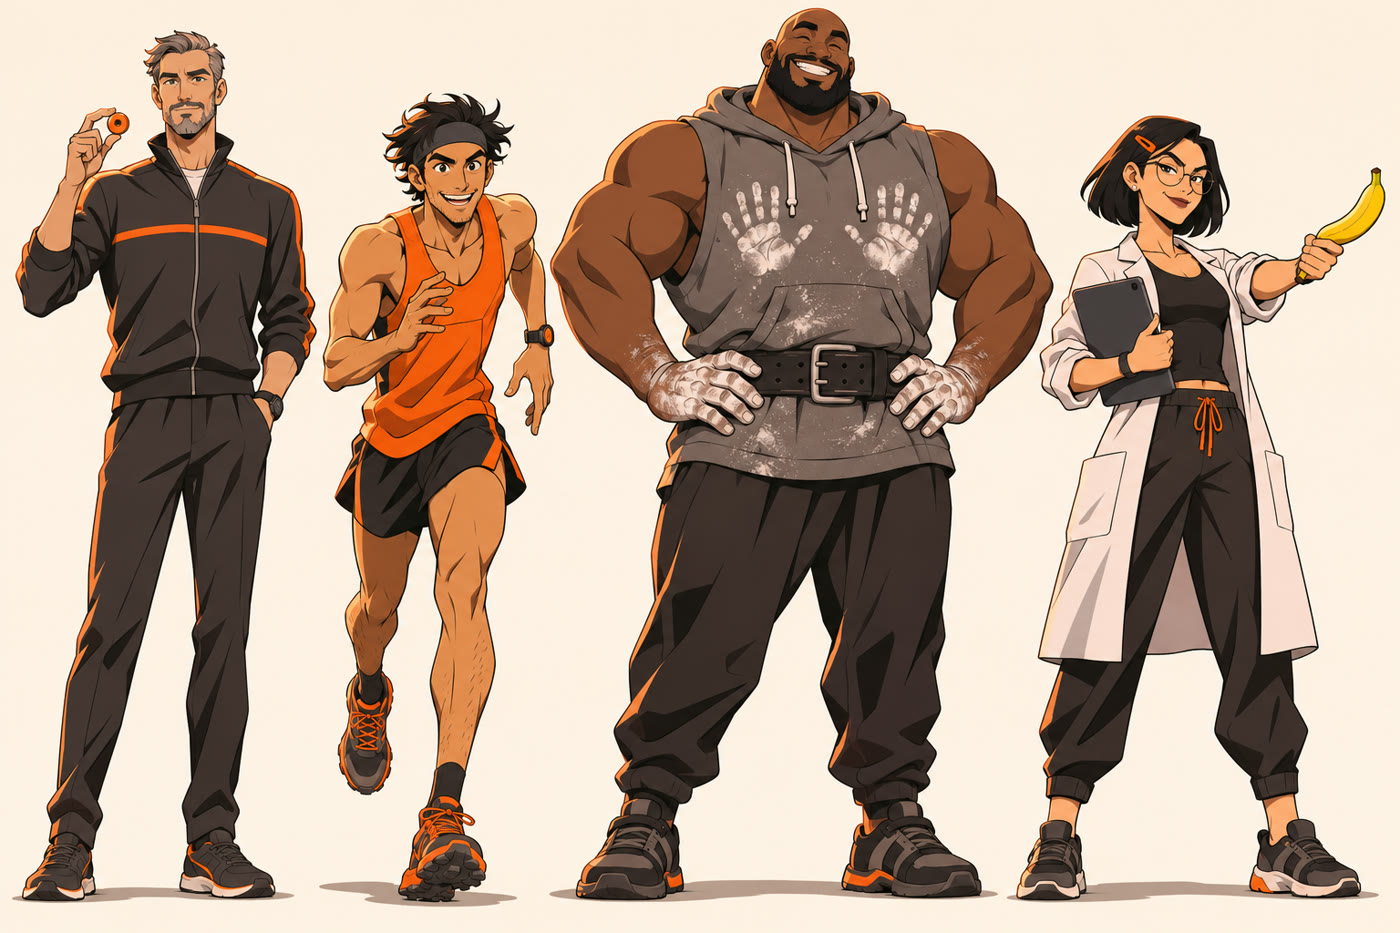
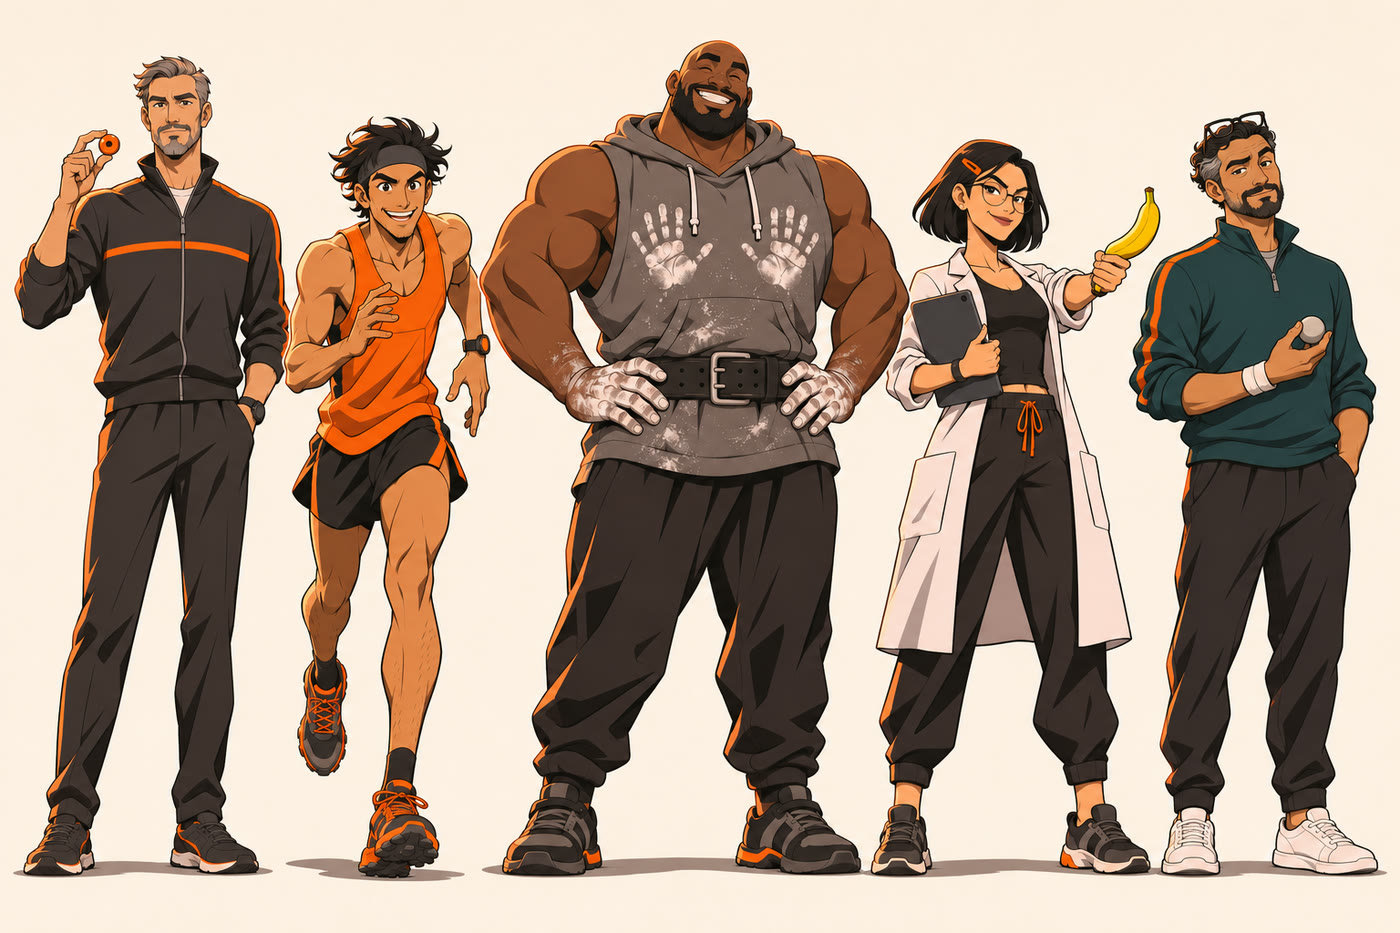
Mo joins the coaches (five AI coaches); hero leads with the first Garmin prediction, 4:39:49; five-coach lineup and share image

diff --git a/can-an-ai-coach-get-you-to-a-sub-3-marathon/index.html b/can-an-ai-coach-get-you-to-a-sub-3-marathon/index.html
@@ -6,17 +6,17 @@
 <script async src="https://www.googletagmanager.com/gtm.js?id=GTM-5Q6Q2KFL"></script>
 <script>window.dataLayer=window.dataLayer||[];function gtag(){dataLayer.push(arguments);}gtag('js',new Date());</script>
 <title>Can an AI coach get you to a sub-3 marathon? One runner is testing it | To The Finish AI running coach</title>
-<meta name="description" content="Not proven yet. I&#x27;m testing it on myself: four AI coaches plan my training for a sub-3 marathon at Chicago on October 10, 2027. Here are my real Garmin numbers, updated every month.">
+<meta name="description" content="Not proven yet. I&#x27;m testing it on myself: five AI coaches plan my training for a sub-3 marathon at Chicago on October 10, 2027. Here are my real Garmin numbers, updated every month.">
 <link rel="canonical" href="https://tothefinish.ai/can-an-ai-coach-get-you-to-a-sub-3-marathon/">
 <meta property="og:title" content="Can an AI coach get you to a sub-3 marathon? One runner is testing it | To The Finish AI running coach">
-<meta property="og:description" content="Not proven yet. I&#x27;m testing it on myself: four AI coaches plan my training for a sub-3 marathon at Chicago on October 10, 2027. Here are my real Garmin numbers, updated every month.">
+<meta property="og:description" content="Not proven yet. I&#x27;m testing it on myself: five AI coaches plan my training for a sub-3 marathon at Chicago on October 10, 2027. Here are my real Garmin numbers, updated every month.">
 <meta property="og:image" content="https://tothefinish.ai/assets/og.jpg">
 <meta property="og:url" content="https://tothefinish.ai/can-an-ai-coach-get-you-to-a-sub-3-marathon/">
 <meta name="twitter:card" content="summary_large_image">
 <link rel="icon" href="/assets/favicon.png">
 <link rel="apple-touch-icon" href="/assets/apple-touch-icon.png">
 <link rel="stylesheet" href="/assets/site.css">
-<script type="application/ld+json">{"@context": "https://schema.org", "@type": "Article", "headline": "Can an AI coach get you to a sub-3 marathon? One runner is testing it", "description": "Not proven yet. I'm testing it on myself: four AI coaches plan my training for a sub-3 marathon at Chicago on October 10, 2027. Here are my real Garmin numbers, updated every month.", "author": {"@type": "Person", "name": "Tyler Stewart", "url": "https://tothefinish.ai/ai-running-coach/"}, "datePublished": "2026-11-18T08:00:00-08:00", "dateModified": "2026-11-18T08:00:00-08:00", "publisher": {"@type": "Organization", "name": "To The Finish", "url": "https://tothefinish.ai/", "logo": {"@type": "ImageObject", "url": "https://tothefinish.ai/assets/logo.png"}}, "mainEntityOfPage": "https://tothefinish.ai/can-an-ai-coach-get-you-to-a-sub-3-marathon/"}</script>
+<script type="application/ld+json">{"@context": "https://schema.org", "@type": "Article", "headline": "Can an AI coach get you to a sub-3 marathon? One runner is testing it", "description": "Not proven yet. I'm testing it on myself: five AI coaches plan my training for a sub-3 marathon at Chicago on October 10, 2027. Here are my real Garmin numbers, updated every month.", "author": {"@type": "Person", "name": "Tyler Stewart", "url": "https://tothefinish.ai/ai-running-coach/"}, "datePublished": "2026-11-18T08:00:00-08:00", "dateModified": "2026-11-18T08:00:00-08:00", "publisher": {"@type": "Organization", "name": "To The Finish", "url": "https://tothefinish.ai/", "logo": {"@type": "ImageObject", "url": "https://tothefinish.ai/assets/logo.png"}}, "mainEntityOfPage": "https://tothefinish.ai/can-an-ai-coach-get-you-to-a-sub-3-marathon/"}</script>
 </head>
 <body>
 <header class="page-top">
@@ -32,7 +32,7 @@
   </div>
 </header>
 <section>
-  <div class="wrap prose"><p>Not proven yet. I&#x27;m testing it on myself. Four AI coaches plan my running, lifting and food for a sub-3 marathon at the Chicago Marathon on October 10, 2027, and I publish the numbers as they come in.</p><p>On October 19, 2026, my Garmin predicted a 4:39:49 marathon. On November 18, 2026, it said 4:34:04. I need 2:59:59.</p><h2>Where I am, from my Garmin</h2><div class="tablewrap"><table class="qt"><thead><tr><th>Measure</th><th>Number</th><th>Date</th></tr></thead><tbody><tr><td data-label="Measure">Garmin marathon prediction, first reading</td><td data-label="Number">4:39:49</td><td data-label="Date">Oct 19, 2026</td></tr><tr><td data-label="Measure">Garmin marathon prediction, latest</td><td data-label="Number">4:34:04</td><td data-label="Date">Nov 18, 2026</td></tr><tr><td data-label="Measure">Goal at Chicago</td><td data-label="Number">2:59:59</td><td data-label="Date">Oct 10, 2027</td></tr><tr><td data-label="Measure">Best threshold pace (per mile)</td><td data-label="Number">6:42</td><td data-label="Date">Aug 2025</td></tr><tr><td data-label="Measure">Threshold pace now (per mile)</td><td data-label="Number">7:55</td><td data-label="Date">Oct 2026</td></tr><tr><td data-label="Measure">Half marathon best</td><td data-label="Number">1:32:31</td><td data-label="Date">Jun 2024</td></tr></tbody></table></div><p>Threshold pace is roughly the fastest pace I can hold for an hour, measured by my Garmin with a chest strap. I&#x27;ve been faster than I am today, which is part of why I think the gap can close.</p><h2>How the AI coaching works</h2><p>Kai, the running coach, builds every week from a published marathon training method and my Garmin data. The plan climbs from about 32 miles a week now to a peak near 90 in September 2027, with hill sprints every week.</p><p>Rook, the head coach, settles it when the running, strength and nutrition coaches want different things. Anything I report, like pain, comes first. Then the race. Every change is written down with the rule behind it.</p><h2>How you&#x27;ll know if it worked</h2><p>The test has checkpoints: a 5K on February 6, 2027, a 10K on May 15, a half marathon on September 5, then Chicago. Each result goes on this site with the official time. If the AI coaching falls short, that goes on here too.</p>
+  <div class="wrap prose"><p>Not proven yet. I&#x27;m testing it on myself. Five AI coaches plan my running, lifting, food and recovery for a sub-3 marathon at the Chicago Marathon on October 10, 2027, and I publish the numbers as they come in.</p><p>On October 19, 2026, my Garmin predicted a 4:39:49 marathon. On November 18, 2026, it said 4:34:04. I need 2:59:59.</p><h2>Where I am, from my Garmin</h2><div class="tablewrap"><table class="qt"><thead><tr><th>Measure</th><th>Number</th><th>Date</th></tr></thead><tbody><tr><td data-label="Measure">Garmin marathon prediction, first reading</td><td data-label="Number">4:39:49</td><td data-label="Date">Oct 19, 2026</td></tr><tr><td data-label="Measure">Garmin marathon prediction, latest</td><td data-label="Number">4:34:04</td><td data-label="Date">Nov 18, 2026</td></tr><tr><td data-label="Measure">Goal at Chicago</td><td data-label="Number">2:59:59</td><td data-label="Date">Oct 10, 2027</td></tr><tr><td data-label="Measure">Best threshold pace (per mile)</td><td data-label="Number">6:42</td><td data-label="Date">Aug 2025</td></tr><tr><td data-label="Measure">Threshold pace now (per mile)</td><td data-label="Number">7:55</td><td data-label="Date">Oct 2026</td></tr><tr><td data-label="Measure">Half marathon best</td><td data-label="Number">1:32:31</td><td data-label="Date">Jun 2024</td></tr></tbody></table></div><p>Threshold pace is roughly the fastest pace I can hold for an hour, measured by my Garmin with a chest strap. I&#x27;ve been faster than I am today, which is part of why I think the gap can close.</p><h2>How the AI coaching works</h2><p>Kai, the running coach, builds every week from a published marathon training method and my Garmin data. The plan climbs from about 32 miles a week now to a peak near 90 in September 2027, with hill sprints every week.</p><p>Rook, the head coach, settles it when the running, strength and nutrition coaches want different things. Anything I report, like pain, comes first. Then the race. Every change is written down with the rule behind it.</p><h2>How you&#x27;ll know if it worked</h2><p>The test has checkpoints: a 5K on February 6, 2027, a 10K on May 15, a half marathon on September 5, then Chicago. Each result goes on this site with the official time. If the AI coaching falls short, that goes on here too.</p>
     <p class="note">By Tyler Stewart. Numbers from my Garmin (chest-strap heart rate). Not medical or nutrition advice; the coaches are AI characters.</p>
   </div>
 </section>

diff --git a/index.html b/index.html
@@ -11,13 +11,13 @@
   gtag('js', new Date());
 </script>
 <title>To The Finish · The AI running coach show: a 258 lb dad chasing sub-3</title>
-<meta name="description" content="To The Finish is an AI running coach show. I started at 258 lb. I have two kids and 47 weeks to run a sub-3 marathon at Chicago. Four AI coaches run my plan from my Garmin data, and every week becomes an animated episode.">
+<meta name="description" content="To The Finish is an AI running coach show. I started at 258 lb. I have two kids and 47 weeks to run a sub-3 marathon at Chicago. Five AI coaches run my plan from my Garmin data, and every week becomes an animated episode.">
 <meta property="og:title" content="To The Finish · The AI running coach show">
-<meta property="og:description" content="The AI running coach show: a 258 lb dad of two, four AI coaches, and 47 weeks to run a sub-3 marathon at Chicago.">
+<meta property="og:description" content="The AI running coach show: a 258 lb dad of two, five AI coaches, and 47 weeks to run a sub-3 marathon at Chicago.">
 <meta property="og:image" content="https://tothefinish.ai/assets/og.jpg">
 <meta property="og:url" content="https://tothefinish.ai/">
 <link rel="canonical" href="https://tothefinish.ai/">
-<script type="application/ld+json">{"@context": "https://schema.org", "@graph": [{"@type": "WebSite", "name": "To The Finish", "alternateName": "To The Finish AI running coach", "url": "https://tothefinish.ai/"}, {"@type": "CreativeWorkSeries", "name": "To The Finish", "url": "https://tothefinish.ai/", "description": "The AI running coach show, weekly and animated: a 258 lb dad of two training for a sub-3 marathon at Chicago, coached by four AI coaches, with real Garmin numbers.", "sameAs": ["https://www.youtube.com/@tothefinishai", "https://www.instagram.com/tothefinishai/", "https://www.tiktok.com/@tothefinishai", "https://x.com/tothefinishai", "https://www.strava.com/clubs/tothefinish"]}]}</script>
+<script type="application/ld+json">{"@context": "https://schema.org", "@graph": [{"@type": "WebSite", "name": "To The Finish", "alternateName": "To The Finish AI running coach", "url": "https://tothefinish.ai/"}, {"@type": "CreativeWorkSeries", "name": "To The Finish", "url": "https://tothefinish.ai/", "description": "The AI running coach show, weekly and animated: a 258 lb dad of two training for a sub-3 marathon at Chicago, coached by five AI coaches, with real Garmin numbers.", "sameAs": ["https://www.youtube.com/@tothefinishai", "https://www.instagram.com/tothefinishai/", "https://www.tiktok.com/@tothefinishai", "https://x.com/tothefinishai", "https://www.strava.com/clubs/tothefinish"]}]}</script>
 <meta name="twitter:card" content="summary_large_image">
 <link rel="icon" href="assets/favicon.png">
 <link rel="apple-touch-icon" href="assets/apple-touch-icon.png">
@@ -80,7 +80,7 @@ form.join button:hover{filter:brightness(1.06)}
 
 /* coaches */
 .coaches h2{font-size:clamp(44px,6vw,72px);margin-bottom:12px}
-.grid{display:grid;grid-template-columns:repeat(4,1fr);gap:16px;margin-top:26px}
+.grid{display:grid;grid-template-columns:repeat(5,1fr);gap:16px;margin-top:26px}
 .card{background:var(--ink-2);border-radius:14px;overflow:hidden;border:1px solid var(--line)}
 .card img{width:100%;aspect-ratio:4/5;object-fit:cover;display:block}
 .card .t{padding:16px}
@@ -125,7 +125,7 @@ footer p{margin:14px 0 0;line-height:1.5}
       <div>
         <p class="kicker">Episode 1 · Sunday, Nov 22</p>
         <h1 class="display">To the<br><span class="o">finish.</span></h1>
-        <p class="lead">I started this at 258 lb, with two kids and a goal I'm not built for: a sub-3 marathon at Chicago on October 10, 2027. My watch says I'd run <b data-k="now">4:34:04</b> today. Four AI coaches run my plan, and every week becomes an animated episode.</p>
+        <p class="lead">I started this at 258 lb, with two kids and a goal I'm not built for: a sub-3 marathon at Chicago on October 10, 2027. When I started, my watch said I'd run a 4:39:49 marathon. Today it says <b data-k="now">4:34:04</b>. Five AI coaches run my plan, and every week becomes an animated episode.</p>
         <form class="join" id="join-top" data-thanks="thanks-top">
           <input name="fields[first_name]" placeholder="First name" autocomplete="given-name">
           <input name="email_address" type="email" placeholder="Email" required autocomplete="email">
@@ -134,7 +134,7 @@ footer p{margin:14px 0 0;line-height:1.5}
         <div class="thanks" id="thanks-top">You're in. The first email comes Sunday with the week's miles and the new episode.</div>
         <p class="fine">One email every Sunday: my week's miles and the new episode.</p>
       </div>
-      <img src="assets/lineup.jpg" alt="The four To The Finish coaches: Rook, Kai, Bo and Juno" width="1400" height="933">
+      <img src="assets/lineup.jpg" alt="The five To The Finish coaches: Rook, Kai, Bo, Juno and Mo" width="1400" height="933">
     </div>
   </div>
 </header>
@@ -194,6 +194,7 @@ footer p{margin:14px 0 0;line-height:1.5}
       <div class="card"><img src="assets/kai.jpg" alt="Kai, the AI running coach" loading="lazy"><div class="t"><h3>Kai</h3><p class="role">AI running coach</p><p class="job">Plans every run from my Garmin data.</p><p class="line">"Easy days slower than his ego wants."</p></div></div>
       <div class="card"><img src="assets/bo.jpg" alt="Bo, the AI strength coach" loading="lazy"><div class="t"><h3>Bo</h3><p class="role">AI strength coach</p><p class="job">Fits four short lifts around the running.</p><p class="line">"I want his legs. Twice a week."</p></div></div>
       <div class="card"><img src="assets/juno.jpg" alt="Juno, the AI nutritionist" loading="lazy"><div class="t"><h3>Juno</h3><p class="role">AI nutritionist</p><p class="job">Plans my meals around the training.</p><p class="line">"Fight over him all you want. I feed him first."</p></div></div>
+      <div class="card"><img src="assets/mo.jpg" alt="Mo, the AI recovery coach" loading="lazy"><div class="t"><h3>Mo</h3><p class="role">AI recovery coach</p><p class="job">Keeps me healthy: sleep, aches, easier weeks.</p><p class="line">"He's mine at eight. Lights out."</p></div></div>
     </div>
   </div>
 </section>

diff --git a/ai-running-coach/index.html b/ai-running-coach/index.html
@@ -5,18 +5,18 @@
 <meta name="viewport" content="width=device-width, initial-scale=1">
 <script async src="https://www.googletagmanager.com/gtm.js?id=GTM-5Q6Q2KFL"></script>
 <script>window.dataLayer=window.dataLayer||[];function gtag(){dataLayer.push(arguments);}gtag('js',new Date());</script>
-<title>AI Running Coach: four coaches, one sub-3 attempt | To The Finish</title>
-<meta name="description" content="My AI running coach is a team of four: running, strength, nutrition and a head coach who settles it when they disagree. It reads my Garmin data and plans my week toward a sub-3 marathon.">
+<title>AI Running Coach: five coaches, one sub-3 attempt | To The Finish</title>
+<meta name="description" content="My AI running coach is a team of five: running, strength, nutrition, recovery and a head coach who settles it when they disagree. It reads my Garmin data and plans my week toward a sub-3 marathon.">
 <link rel="canonical" href="https://tothefinish.ai/ai-running-coach/">
-<meta property="og:title" content="AI Running Coach: four coaches, one sub-3 attempt | To The Finish">
-<meta property="og:description" content="My AI running coach is a team of four: running, strength, nutrition and a head coach who settles it when they disagree. It reads my Garmin data and plans my week toward a sub-3 marathon.">
+<meta property="og:title" content="AI Running Coach: five coaches, one sub-3 attempt | To The Finish">
+<meta property="og:description" content="My AI running coach is a team of five: running, strength, nutrition, recovery and a head coach who settles it when they disagree. It reads my Garmin data and plans my week toward a sub-3 marathon.">
 <meta property="og:image" content="https://tothefinish.ai/assets/og.jpg">
 <meta property="og:url" content="https://tothefinish.ai/ai-running-coach/">
 <meta name="twitter:card" content="summary_large_image">
 <link rel="icon" href="/assets/favicon.png">
 <link rel="apple-touch-icon" href="/assets/apple-touch-icon.png">
 <link rel="stylesheet" href="/assets/site.css">
-<script type="application/ld+json">{"@context": "https://schema.org", "@type": "WebPage", "name": "AI running coach | To The Finish", "url": "https://tothefinish.ai/ai-running-coach/", "description": "My AI running coach is a team of four: running, strength, nutrition and a head coach who settles it when they disagree. It reads my Garmin data and plans my week toward a sub-3 marathon."}</script>
+<script type="application/ld+json">{"@context": "https://schema.org", "@type": "WebPage", "name": "AI running coach | To The Finish", "url": "https://tothefinish.ai/ai-running-coach/", "description": "My AI running coach is a team of five: running, strength, nutrition, recovery and a head coach who settles it when they disagree. It reads my Garmin data and plans my week toward a sub-3 marathon."}</script>
 </head>
 <body>
 <header class="page-top">
@@ -28,7 +28,7 @@
     <div class="page">
       <p class="kicker">The coaches</p>
       <h1 class="display">My AI running <span class="o">coach.</span></h1>
-      <p class="lead">My AI running coach isn't one coach. It's four, and they argue. Right now the setup coaches one runner: me, starting at 258 lb, training for a sub-3 marathon at Chicago on October 10, 2027.</p>
+      <p class="lead">My AI running coach is a team of five, and they argue. Right now the setup coaches one runner: me, starting at 258 lb, training for a sub-3 marathon at Chicago on October 10, 2027.</p>
     </div>
   </div>
 </header>
@@ -38,7 +38,8 @@
     <p><b>Kai</b> plans every run from my Garmin data: the easy days, the hill sprints, the long run, and the paces each one should feel like.</p>
     <p><b>Bo</b> fits four short lifts around the running, and he always wants my legs on the wrong day.</p>
     <p><b>Juno</b> plans my meals around the training and makes sure I eat enough to run.</p>
-    <p><b>Rook</b> is the head coach. When the other three want different things from the same week, he decides.</p>
+    <p><b>Mo</b> keeps me healthy enough to keep training: sleep, aches and pains, prehab, and when I need an easier week.</p>
+    <p><b>Rook</b> is the head coach. When the others want different things from the same week, he decides.</p>
     <h2>How it decides</h2>
     <p>Rook settles every clash in the same order: anything I report, like pain, comes first. Then the race in Chicago. Then my weight. Then strength. So when Bo wants heavy legs the day before a hard run, the run usually wins.</p>
     <p>The plan comes from real coaching methods, and every change is written down with the rule behind it. The coaches are AI characters, and this is my personal setup, not medical or nutrition advice.</p>

diff --git a/episodes/index.html b/episodes/index.html
@@ -6,17 +6,17 @@
 <script async src="https://www.googletagmanager.com/gtm.js?id=GTM-5Q6Q2KFL"></script>
 <script>window.dataLayer=window.dataLayer||[];function gtag(){dataLayer.push(arguments);}gtag('js',new Date());</script>
 <title>Episodes | To The Finish, the AI running coach show</title>
-<meta name="description" content="Every episode of To The Finish, the AI running coach show: a 258 lb dad of two training for a sub-3 marathon at Chicago, coached by four AI coaches, with the real numbers from his Garmin.">
+<meta name="description" content="Every episode of To The Finish, the AI running coach show: a 258 lb dad of two training for a sub-3 marathon at Chicago, coached by five AI coaches, with the real numbers from his Garmin.">
 <link rel="canonical" href="https://tothefinish.ai/episodes/">
 <meta property="og:title" content="Episodes | To The Finish, the AI running coach show">
-<meta property="og:description" content="Every episode of To The Finish, the AI running coach show: a 258 lb dad of two training for a sub-3 marathon at Chicago, coached by four AI coaches, with the real numbers from his Garmin.">
+<meta property="og:description" content="Every episode of To The Finish, the AI running coach show: a 258 lb dad of two training for a sub-3 marathon at Chicago, coached by five AI coaches, with the real numbers from his Garmin.">
 <meta property="og:image" content="https://tothefinish.ai/assets/og.jpg">
 <meta property="og:url" content="https://tothefinish.ai/episodes/">
 <meta name="twitter:card" content="summary_large_image">
 <link rel="icon" href="/assets/favicon.png">
 <link rel="apple-touch-icon" href="/assets/apple-touch-icon.png">
 <link rel="stylesheet" href="/assets/site.css">
-<script type="application/ld+json">{"@context": "https://schema.org", "@type": "CreativeWorkSeries", "name": "To The Finish", "url": "https://tothefinish.ai/", "description": "Every episode of To The Finish, the AI running coach show: a 258 lb dad of two training for a sub-3 marathon at Chicago, coached by four AI coaches, with the real numbers from his Garmin."}</script>
+<script type="application/ld+json">{"@context": "https://schema.org", "@type": "CreativeWorkSeries", "name": "To The Finish", "url": "https://tothefinish.ai/", "description": "Every episode of To The Finish, the AI running coach show: a 258 lb dad of two training for a sub-3 marathon at Chicago, coached by five AI coaches, with the real numbers from his Garmin."}</script>
 </head>
 <body>
 <header class="page-top">

diff --git a/assets/site.css b/assets/site.css
@@ -56,7 +56,7 @@ form.join button:hover{filter:brightness(1.06)}
 
 /* coaches */
 .coaches h2{font-size:clamp(44px,6vw,72px);margin-bottom:12px}
-.grid{display:grid;grid-template-columns:repeat(4,1fr);gap:16px;margin-top:26px}
+.grid{display:grid;grid-template-columns:repeat(5,1fr);gap:16px;margin-top:26px}
 .card{background:var(--ink-2);border-radius:14px;overflow:hidden;border:1px solid var(--line)}
 .card img{width:100%;aspect-ratio:4/5;object-fit:cover;display:block}
 .card .t{padding:16px}

diff --git a/tools/build_pages.py b/tools/build_pages.py
@@ -161,7 +161,7 @@ def episode_page(e):
 def episodes_index(eps):
     path = "/episodes/"
     desc = ("Every episode of To The Finish, the AI running coach show: a 258 lb dad of two training for a sub-3 marathon at Chicago, "
-            "coached by four AI coaches, with the real numbers from his Garmin.")
+            "coached by five AI coaches, with the real numbers from his Garmin.")
     if eps:
         items = "".join(
             f'<li><a href="/episodes/{e["slug"]}/"><span class="n">Episode {e["number"]} · '
@@ -190,14 +190,14 @@ def episodes_index(eps):
 
 def coach_page(qs=()):
     path = "/ai-running-coach/"
-    desc = ("My AI running coach is a team of four: running, strength, nutrition and a head coach who settles "
+    desc = ("My AI running coach is a team of five: running, strength, nutrition, recovery and a head coach who settles "
             "it when they disagree. It reads my Garmin data and plans my week toward a sub-3 marathon.")
     org = {"@context": "https://schema.org", "@type": "WebPage", "name": "AI running coach | To The Finish",
            "url": SITE + path, "description": desc}
-    return head("AI Running Coach: four coaches, one sub-3 attempt | To The Finish", desc, path, ld(org)) + """    <div class="page">
+    return head("AI Running Coach: five coaches, one sub-3 attempt | To The Finish", desc, path, ld(org)) + """    <div class="page">
       <p class="kicker">The coaches</p>
       <h1 class="display">My AI running <span class="o">coach.</span></h1>
-      <p class="lead">My AI running coach isn't one coach. It's four, and they argue. Right now the setup coaches one runner: me, starting at 258 lb, training for a sub-3 marathon at Chicago on October 10, 2027.</p>
+      <p class="lead">My AI running coach is a team of five, and they argue. Right now the setup coaches one runner: me, starting at 258 lb, training for a sub-3 marathon at Chicago on October 10, 2027.</p>
     </div>
   </div>
 </header>
@@ -207,7 +207,8 @@ def coach_page(qs=()):
     <p><b>Kai</b> plans every run from my Garmin data: the easy days, the hill sprints, the long run, and the paces each one should feel like.</p>
     <p><b>Bo</b> fits four short lifts around the running, and he always wants my legs on the wrong day.</p>
     <p><b>Juno</b> plans my meals around the training and makes sure I eat enough to run.</p>
-    <p><b>Rook</b> is the head coach. When the other three want different things from the same week, he decides.</p>
+    <p><b>Mo</b> keeps me healthy enough to keep training: sleep, aches and pains, prehab, and when I need an easier week.</p>
+    <p><b>Rook</b> is the head coach. When the others want different things from the same week, he decides.</p>
     <h2>How it decides</h2>
     <p>Rook settles every clash in the same order: anything I report, like pain, comes first. Then the race in Chicago. Then my weight. Then strength. So when Bo wants heavy legs the day before a hard run, the run usually wins.</p>
     <p>The plan comes from real coaching methods, and every change is written down with the rule behind it. The coaches are AI characters, and this is my personal setup, not medical or nutrition advice.</p>
